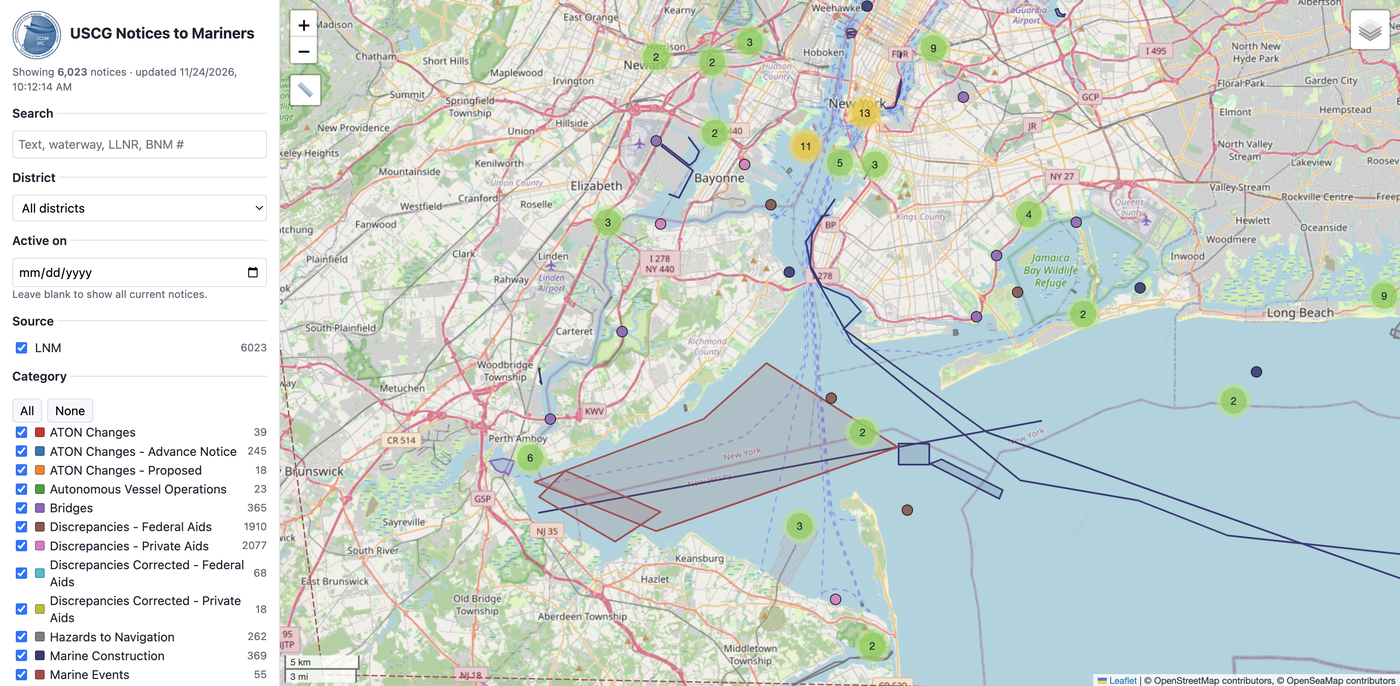
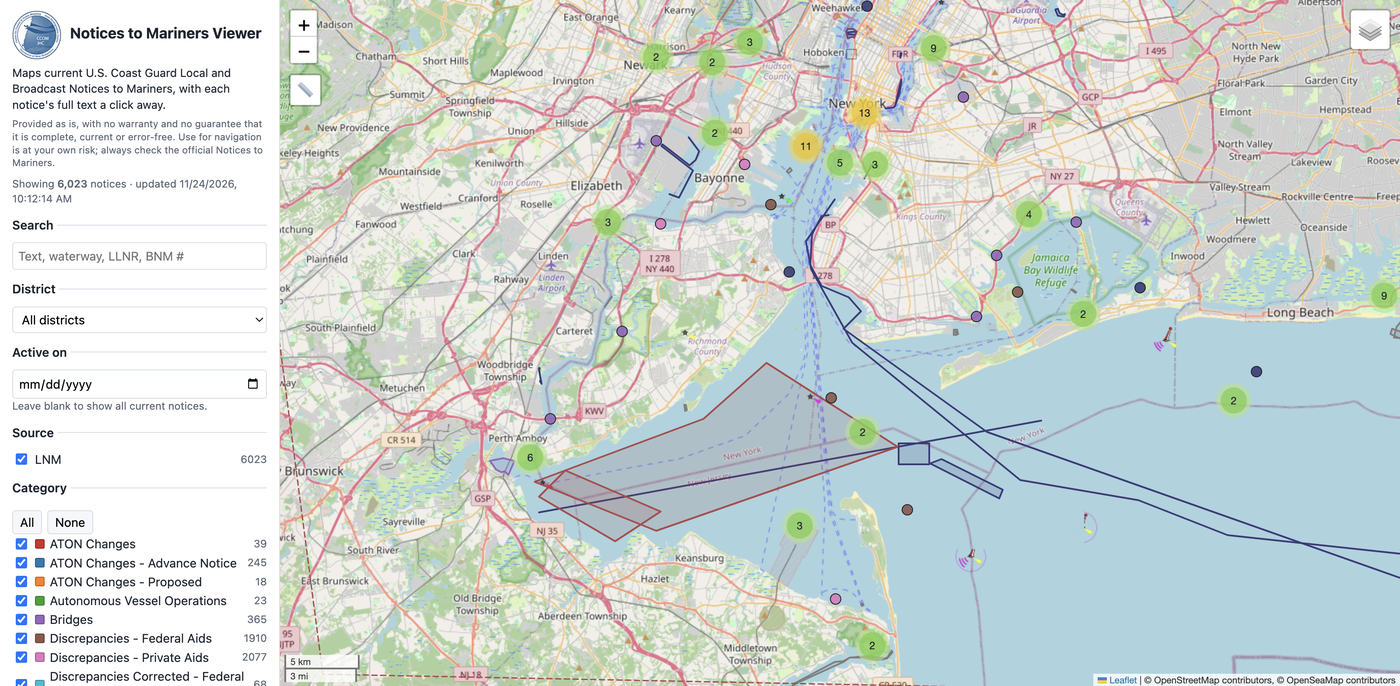
Rename to "Notices to Mariners Viewer"; add description, move copyright to footer
- Heading, page title and README title: "Notices to Mariners Viewer"
- One-sentence description under the heading, followed by the warranty statement
- Copyright line back at the bottom of the side panel
- Retake README screenshot

diff --git a/bnm/web/index.html b/bnm/web/index.html
@@ -3,7 +3,7 @@
 <head>
 <meta charset="utf-8">
 <meta name="viewport" content="width=device-width, initial-scale=1">
-<title>Notices to Mariners Map</title>
+<title>Notices to Mariners Viewer</title>
 <link rel="stylesheet" href="https://cdnjs.cloudflare.com/ajax/libs/leaflet/1.9.4/leaflet.min.css">
 <link rel="stylesheet" href="https://cdnjs.cloudflare.com/ajax/libs/leaflet.markercluster/1.5.3/MarkerCluster.min.css">
 <link rel="stylesheet" href="https://cdnjs.cloudflare.com/ajax/libs/leaflet.markercluster/1.5.3/MarkerCluster.Default.min.css">
@@ -42,6 +42,8 @@
   .measure .out:empty { display: none; }
   .measure-on .leaflet-container, #map.measure-on { cursor: crosshair; }
   #toggle { display: none; }
+  .intro { margin: 0 0 6px; font-size: 13px; }
+  .legal { margin: 0 0 8px; font-size: 11px; line-height: 1.35; color: var(--muted); }
   .disclaimer { margin-top: 14px; font-size: 11px; color: var(--muted); }
   @media (max-width: 700px) {
     #app { flex-direction: column; }
@@ -59,8 +61,11 @@
       <div class="brand">
         <a href="https://ccom.unh.edu" target="_blank" rel="noopener"><img src="ccom-jhc-logo.png" width="56" height="56"
           alt="Center for Coastal and Ocean Mapping / Joint Hydrographic Center, University of New Hampshire"></a>
-        <h1>USCG Notices to Mariners</h1>
+        <h1>Notices to Mariners Viewer</h1>
       </div>
+      <p class="intro">Maps current U.S. Coast Guard Local and Broadcast Notices to Mariners, with each notice's full text a click away.</p>
+      <p class="legal">Provided as is, with no warranty and no guarantee that it is complete, current or error-free.
+        Use for navigation is at your own risk; always check the official Notices to Mariners.</p>
       <div class="muted">Showing <span id="count">0</span> notices · <span id="updated">loading…</span></div>
       <div id="errors" class="warn"></div>
     </header>
@@ -90,9 +95,9 @@
       <legend>Broadcast notices without a position</legend>
       <ul id="unmapped" class="muted" style="margin:0;padding-left:18px"></ul>
     </fieldset>
-    <p class="disclaimer">Provided as is, with no warranty and no guarantee that it is complete, current or error-free.
-      Use for navigation is at your own risk; always check the official Notices to Mariners. Data from the U.S. Coast
-      Guard Navigation Center (<a href="https://www.navcen.uscg.gov/msi" target="_blank" rel="noopener">navcen.uscg.gov</a>). Downloads: <a href="data/notices.geojson">GeoJSON</a> · <a href="data/notices.kml">KML</a>.</p>
+    <p class="disclaimer">Data from the U.S. Coast Guard Navigation Center
+      (<a href="https://www.navcen.uscg.gov/msi" target="_blank" rel="noopener">navcen.uscg.gov</a>).
+      Downloads: <a href="data/notices.geojson">GeoJSON</a> · <a href="data/notices.kml">KML</a>.</p>
     <p class="disclaimer">&copy; 2026 Val Schmidt, University of New Hampshire. BSD 3-Clause License.</p>
   </aside>
   <div id="map"></div>

diff --git a/README.md b/README.md
@@ -1,4 +1,4 @@
-# USCG Notices to Mariners Map
+# Notices to Mariners Viewer
 
 Fetches U.S. Coast Guard Local Notices to Mariners (LNM) and puts them on a web map you can pan and zoom. Each notice's full text is shown in a popup on its geometry. It also maps Broadcast Notices to Mariners (BNM) received by email.
 
